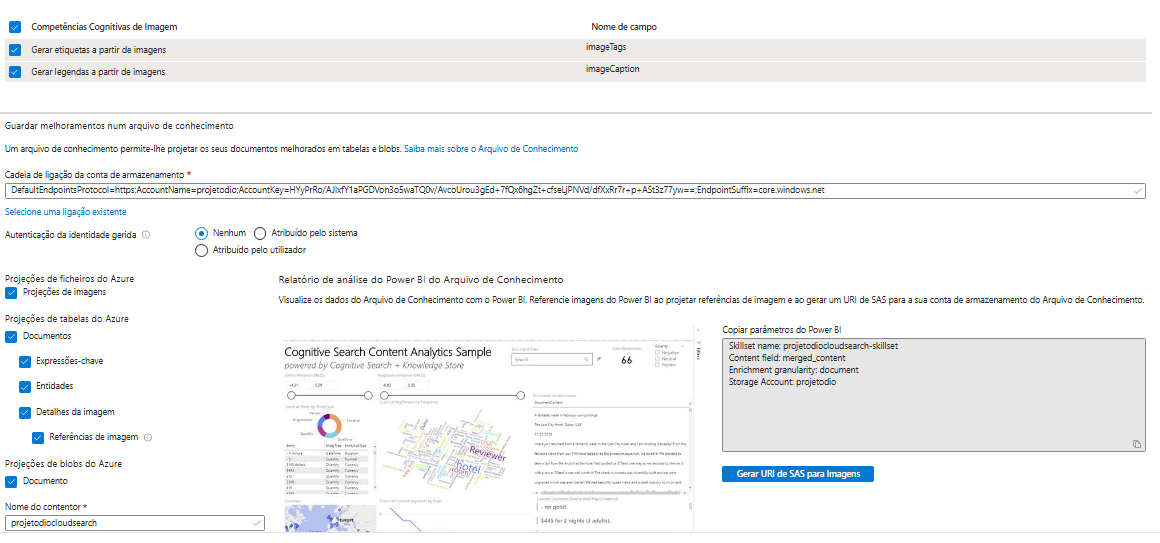
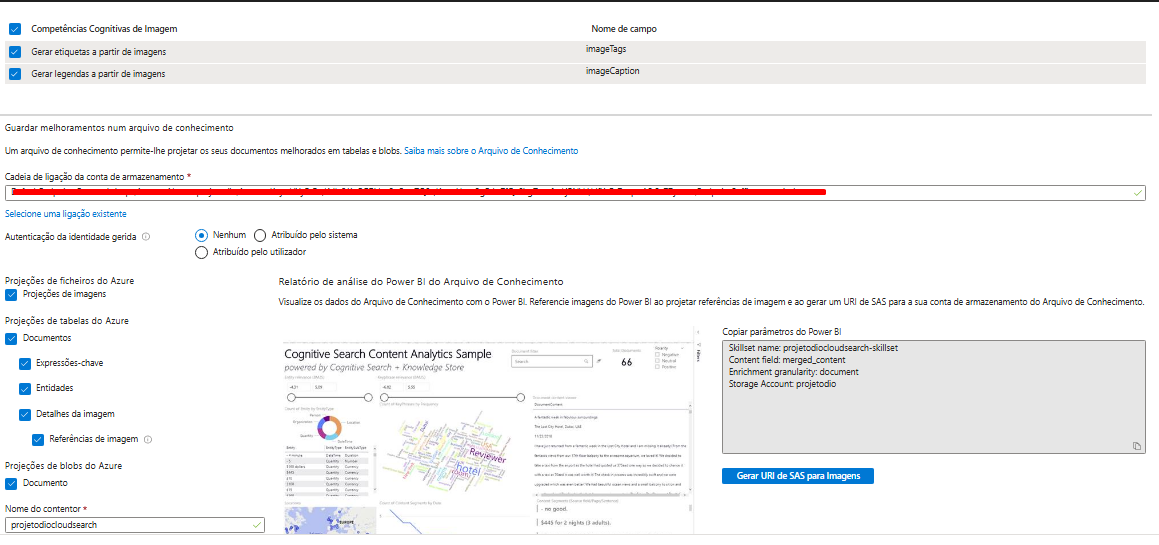
Ajuste readme e foto

diff --git a/ProjetoIASearch/readme.md b/ProjetoIASearch/readme.md
@@ -52,7 +52,7 @@ Caso as imagens fiquem quebradas utilize "Ctrl + F5" ou "⌘+Shift+R"
 ![Selecionar container](./images/13-selecionarcontainer.png)
 ![Importar dados search final](./images/14-importardadosfinal.png)
 
-11.  Clicamos em seguinte e vamos para a aba de "Add cognitive skills", selecione conforme fotos abaixo
+11.  Clicamos em seguinte e vamos para a aba de "Add cognitive skills", selecione conforme fotos abaixo, selecione novamente seu container no "Selecione uma ligação existente"
 ![Cognitive skills](./images/15-abacognitiveskills.png)
 ![Cognitive skills](./images/1502-abacognitiveskills.png)
 
